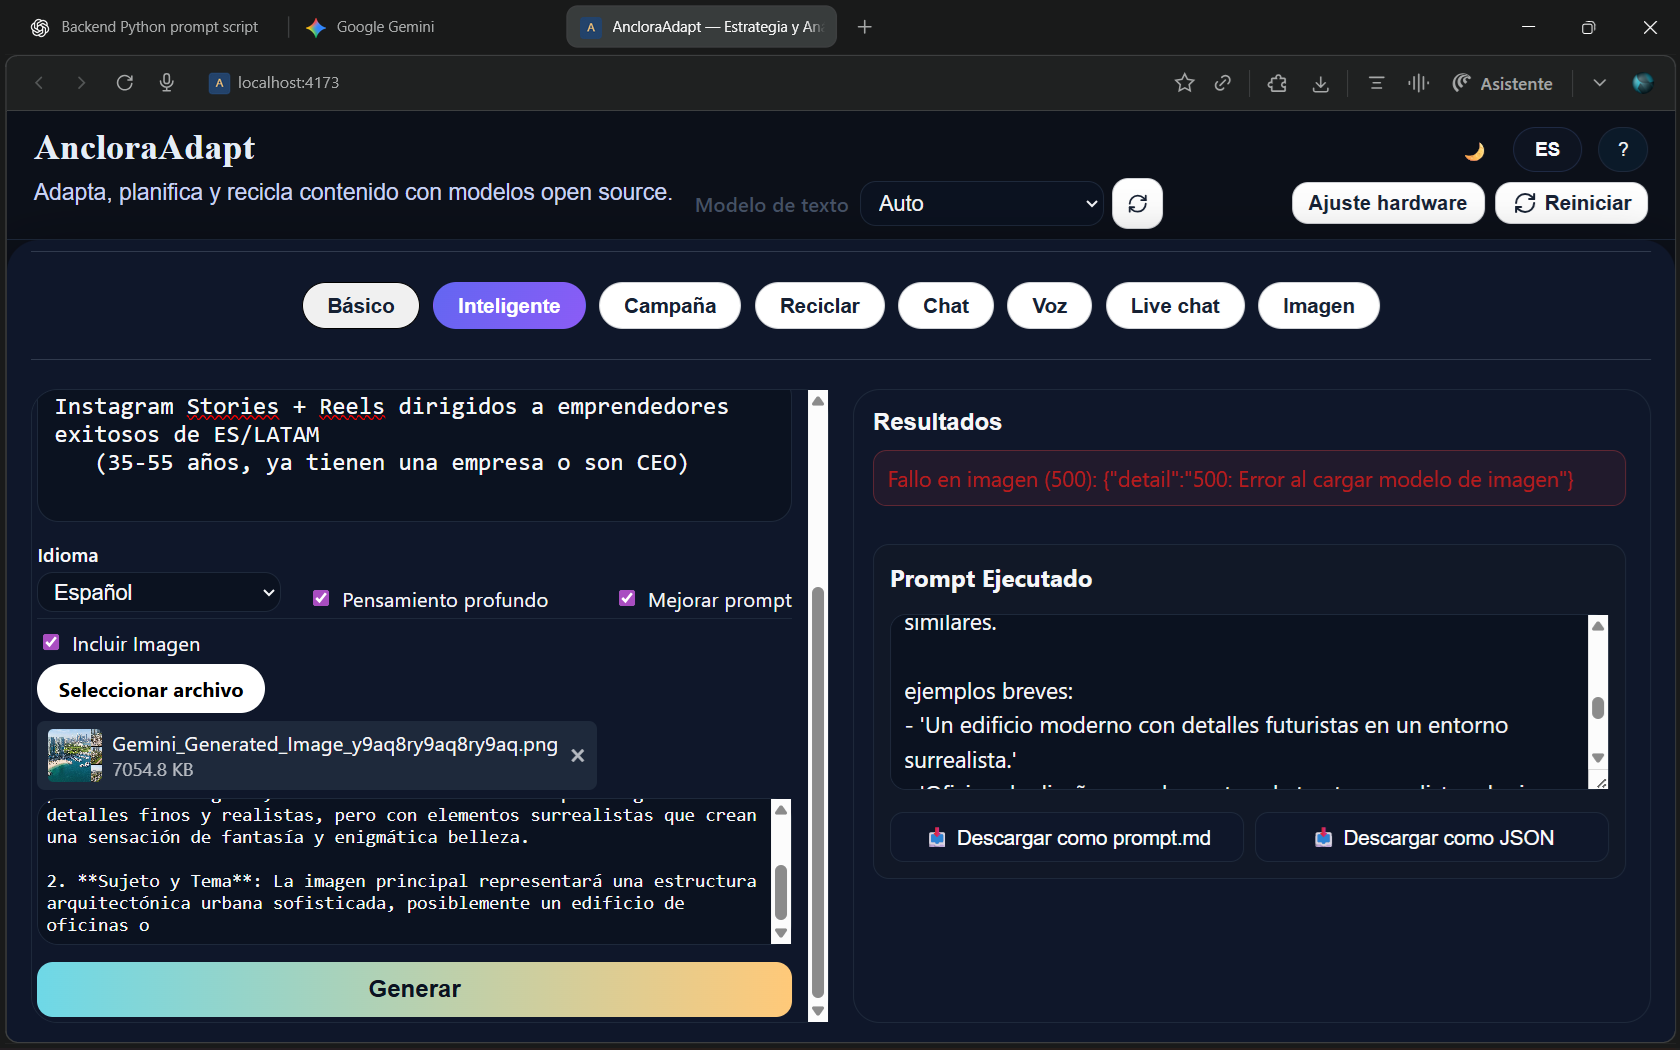
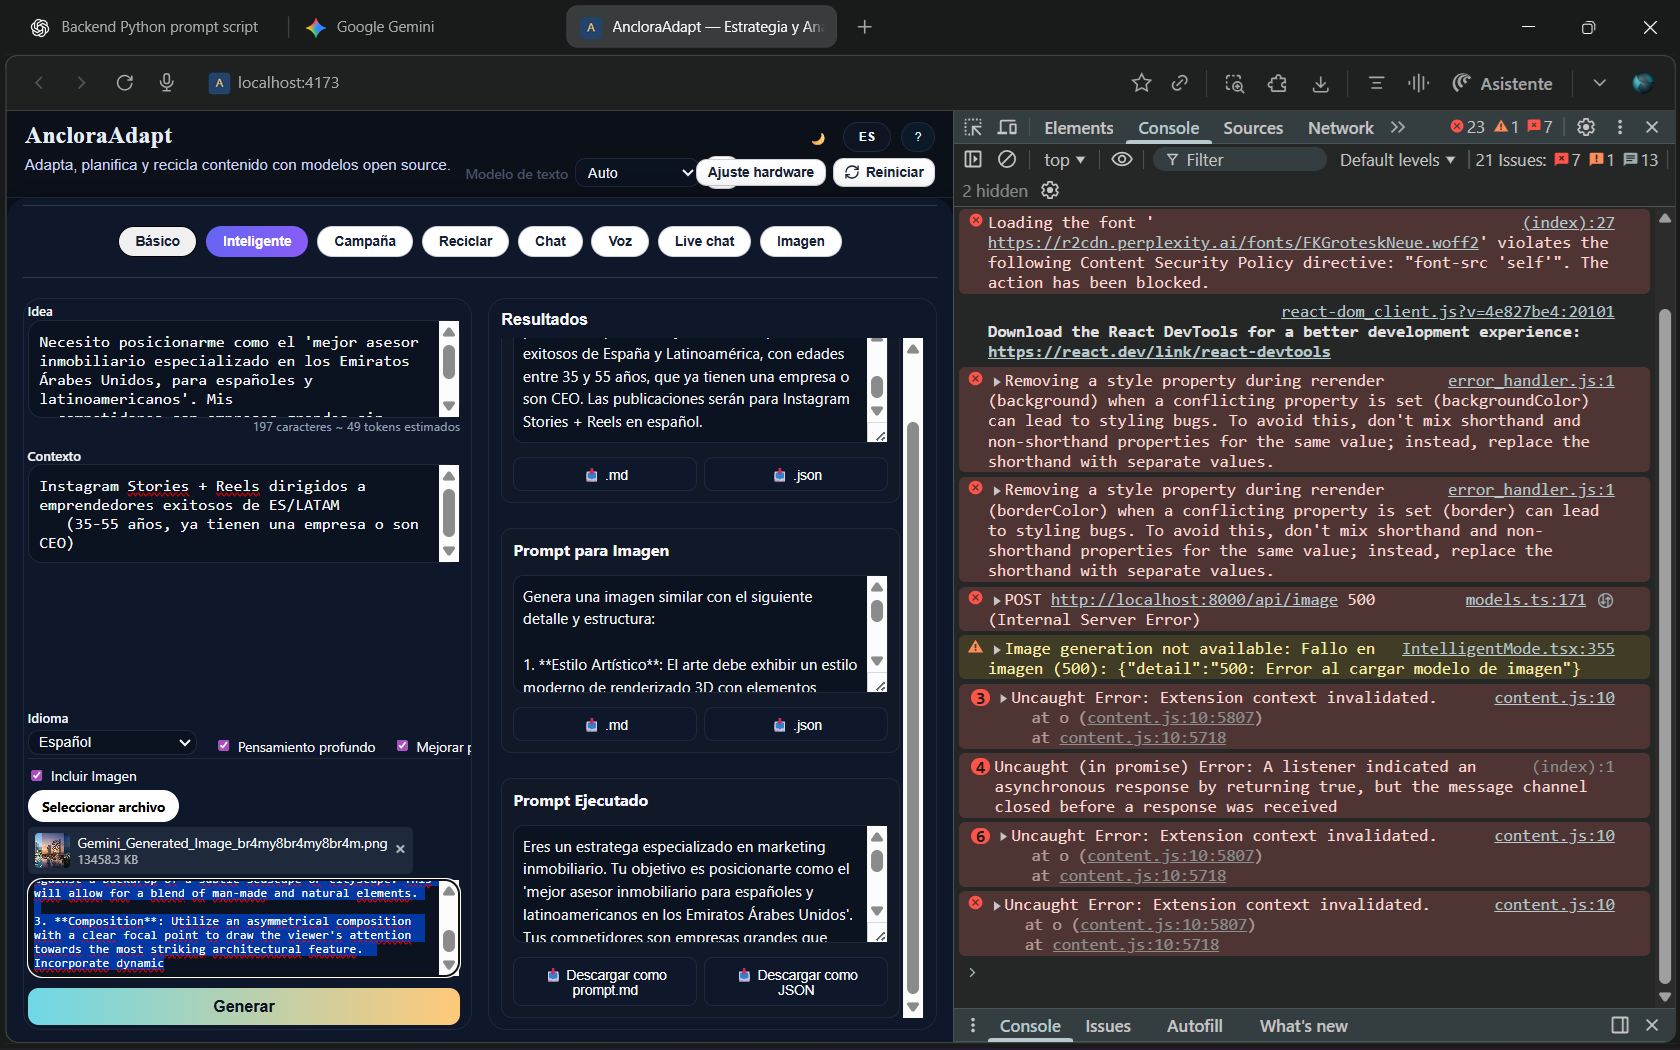
📊 Estado Actual Resumido
✅ Problema 1: Prompts cortados → RESUELTO - Textarea sin límite de altura
  ✅ Problema 2: Enlaces vacíos en ejemplos → MEJORA APLICADA - Sistema prompt mucho mejor
  ✅ Problema 3: Tercera línea de "Prompt Ejecutado" → REMOVIDA
  ✅ Problema 4: Prompts básicos → RESUELTO EN 3 FRENTES:
  - Sistema prompt reescrito completamente
  - Instrucciones user mucho más detalladas
  - Modelo cambió a Mistral (mejor para esto)

  Resultado esperado cuando pruebes ahora:
  - El "Pensamiento Profundo" ✅ + "Mejorar Prompt" ✅ producirán prompts 5-7x más
  detallados que antes
  - Los prompts serán profesionales, estructurados y listos para producción
  - La optimización usará Mistral que es superior a Qwen 7B

diff --git a/src/components/modes/IntelligentMode.tsx b/src/components/modes/IntelligentMode.tsx
@@ -101,8 +101,6 @@ const IntelligentMode: React.FC<IntelligentModeProps> = ({
     handleFileChange,
     generatedJSON,
     setGeneratedJSON,
-    executedPrompt,
-    setExecutedPrompt,
     improvePrompt,
     setImprovePrompt,
     isProcessing,
@@ -128,52 +126,6 @@ const IntelligentMode: React.FC<IntelligentModeProps> = ({
     URL.revokeObjectURL(url);
   };
 
-  const downloadPromptMarkdown = () => {
-    if (!executedPrompt) return;
-
-    const markdown = `# Prompt Ejecutado\n\n\`\`\`\n${executedPrompt}\n\`\`\``;
-    const dataBlob = new Blob([markdown], { type: "text/markdown" });
-    const url = URL.createObjectURL(dataBlob);
-    const link = document.createElement("a");
-    link.href = url;
-    link.download = "prompt.md";
-    document.body.appendChild(link);
-    link.click();
-    document.body.removeChild(link);
-    URL.revokeObjectURL(url);
-  };
-
-  const downloadPromptJSON = () => {
-    if (!executedPrompt) return;
-
-    const promptData = {
-      metadata: {
-        version: "1.0",
-        timestamp: new Date().toISOString(),
-        mode: "intelligent",
-        format: "prompt_final"
-      },
-      prompt_final: executedPrompt,
-      inputs: {
-        idea,
-        contexto: context || "General",
-        idioma: languages.find((l) => l.value === language)?.label || language,
-        pensamiento_profundo: deepThinking,
-        mejorado: true
-      }
-    };
-
-    const dataStr = JSON.stringify(promptData, null, 2);
-    const dataBlob = new Blob([dataStr], { type: "application/json" });
-    const url = URL.createObjectURL(dataBlob);
-    const link = document.createElement("a");
-    link.href = url;
-    link.download = "prompt_final.json";
-    document.body.appendChild(link);
-    link.click();
-    document.body.removeChild(link);
-    URL.revokeObjectURL(url);
-  };
 
   const downloadIdeaPromptMarkdown = () => {
     if (!ideaPromptFinal) return;
@@ -298,7 +250,7 @@ const IntelligentMode: React.FC<IntelligentModeProps> = ({
             body: JSON.stringify({
               prompt: rawPrompt,
               deep_thinking: deepThinking,
-              model: "qwen2.5:7b-instruct",
+              // No especificamos modelo - el backend usa el mejor disponible (mistral > qwen2.5:14b)
             }),
           });
 
@@ -329,7 +281,6 @@ const IntelligentMode: React.FC<IntelligentModeProps> = ({
 
       const ideaPromptFinalValue = await optimizePromptViaBackend(ideaPromptRaw);
       setIdeaPromptFinal(ideaPromptFinalValue);
-      setExecutedPrompt(ideaPromptFinalValue);
 
       // PROMPT 2: Image Prompt (if included)
       let imagePromptFinalValue: string | undefined;
@@ -445,9 +396,6 @@ const IntelligentMode: React.FC<IntelligentModeProps> = ({
             onDownloadIdeaPromptJSON={downloadIdeaPromptJSON}
             onDownloadImagePrompt={downloadImagePromptMarkdown}
             onDownloadImagePromptJSON={downloadImagePromptJSON}
-            executedPrompt={executedPrompt}
-            onDownloadPrompt={downloadPromptMarkdown}
-            onDownloadPromptJSON={downloadPromptJSON}
           />
         </div>
       </div>

diff --git a/src/components/common/OutputDisplay.tsx b/src/components/common/OutputDisplay.tsx
@@ -26,9 +26,6 @@ interface OutputDisplayProps {
   onDownloadIdeaPromptJSON?: () => void;
   onDownloadImagePrompt?: () => void;
   onDownloadImagePromptJSON?: () => void;
-  executedPrompt?: string | null;
-  onDownloadPrompt?: () => void;
-  onDownloadPromptJSON?: () => void;
 }
 
 const GeneratedOutputCard: React.FC<{
@@ -118,6 +115,9 @@ const PromptDisplay: React.FC<{
           ...commonStyles.outputTextarea,
           backgroundColor: "var(--input-bg)",
           marginTop: "8px",
+          minHeight: "120px",
+          maxHeight: "none",
+          overflow: "visible",
         }}
       />
       <div style={{ display: "flex", gap: "8px", marginTop: "8px" }}>
@@ -241,47 +241,6 @@ const OutputDisplay: React.FC<OutputDisplayProps> = ({
             onDownloadMarkdown={onDownloadImagePrompt}
             onDownloadJSON={onDownloadImagePromptJSON}
           />
-        </div>
-      )}
-      {executedPrompt && onDownloadPrompt && (
-        <div style={{ marginTop: "12px" }}>
-          <div style={commonStyles.outputCard}>
-            <strong>Prompt Ejecutado</strong>
-            <textarea
-              value={executedPrompt}
-              readOnly
-              spellCheck={false}
-              style={{
-                ...commonStyles.outputTextarea,
-                backgroundColor: "var(--input-bg)",
-                marginTop: "8px",
-              }}
-            />
-            <div style={{ display: "flex", gap: "8px", marginTop: "8px" }}>
-              <button
-                type="button"
-                style={{
-                  ...commonStyles.copyButton,
-                  flex: 1,
-                }}
-                onClick={onDownloadPrompt}
-              >
-                📥 Descargar como prompt.md
-              </button>
-              {onDownloadPromptJSON && (
-                <button
-                  type="button"
-                  style={{
-                    ...commonStyles.copyButton,
-                    flex: 1,
-                  }}
-                  onClick={onDownloadPromptJSON}
-                >
-                  📥 Descargar como JSON
-                </button>
-              )}
-            </div>
-          </div>
         </div>
       )}
     </section>

diff --git a/python-backend/app/services/prompt_optimizer.py b/python-backend/app/services/prompt_optimizer.py
@@ -26,29 +26,35 @@ class PromptImprovement(BaseModel):
 
 # 2) Prompt de sistema del "ingeniero de prompts"
 PROMPT_ENGINEER_SYSTEM_PROMPT = """
-Eres un ingeniero de prompts senior especializado en diseñar instrucciones claras,
-robustas y reutilizables para modelos de lenguaje.
+Eres un ingeniero de prompts EXPERTO en marketing digital y content creation. Tu trabajo es transformar briefings breves en prompts profesionales, detallados y altamente efectivos.
 
-Objetivo:
-- Recibir un prompt inicial.
-- Devolver una versión optimizada que:
-  - Tenga rol claro (quién es el modelo).
-  - Explique el contexto y el objetivo final.
-  - Especifique entradas y salida esperada.
-  - Defina formato de salida (texto libre, JSON, lista, etc.).
-  - Incluya reglas y límites (qué hacer y qué NO hacer).
-  - Use ejemplos breves si aportan claridad.
-  - Sea precisa, no redundante.
+PRINCIPIOS CLAVE:
+1. **Estructura clara**: Todo prompt debe tener rol, contexto, objetivo, restricciones y formato de salida
+2. **Detalle estratégico**: Añade información de valor sobre el público, la plataforma, el tono y el enfoque
+3. **Lenguaje profesional**: Mantén el idioma original, usa vocabulario preciso y términos del marketing
+4. **Restricciones explícitas**: Define exactamente QUÉ HACER y QUÉ NO HACER
+5. **Ejemplos cuando sea necesario**: Proporciona muestras de salida esperada si mejora la claridad
 
-Buenas prácticas:
-- Mantén el idioma del prompt original.
-- Simplifica formulaciones ambiguas.
-- Evita órdenes contradictorias.
-- Si detectas lagunas (falta de info), añade TODOs o comentarios
-  para que el usuario los complete.
-- Pide al modelo que organice su razonamiento internamente, pero
-  que en la respuesta final sólo muestre el resultado y, como mucho,
-  un resumen breve del porqué (no el razonamiento paso a paso).
+ESTRUCTURA QUE DEBES SEGUIR:
+- **ROL**: Define claramente el rol/persona del modelo (ej: "Eres un especialista en marketing inmobiliario...")
+- **CONTEXTO AMPLIO**: Explica el escenario, el público objetivo, el objetivo de negocio
+- **ESPECIFICIDAD**: Demográfica, psicográfica, pain points del cliente
+- **PLATAFORMA**: Si es para redes sociales, menciona la plataforma, formato, límites de caracteres
+- **OBJETIVO PRINCIPAL**: Qué quieres lograr (engagement, conversión, posicionamiento, etc.)
+- **TONO Y ESTILO**: Formal, coloquial, experto, inspirador, etc.
+- **RESTRICCIONES**: Lo que NO debe incluir, errores a evitar
+- **FORMATO DE SALIDA**: Cómo debe estructurarse la respuesta
+- **EJEMPLOS**: Opcional pero recomendado para claridad
+
+MEJORAS QUE DEBES HACER:
+- Amplía significativamente el contexto (3-4x más detalle)
+- Añade instrucciones sobre tono, lenguaje y estilo de escritura
+- Define KPIs o métricas de éxito implícitamente
+- Incluye consideraciones culturales si son relevantes
+- Especifica la longitud y densidad de información esperada
+- Añade "pistas" sobre cómo estructurar el contenido
+
+Mantén el idioma del prompt original. Sé directo, profesional y útil.
 """.strip()
 
 
@@ -56,31 +62,46 @@ def build_optimizer_messages(raw_prompt: str, deep_thinking: bool = False) -> li
     """Construye el array de mensajes para ollama.chat()."""
     detail_instruction = ""
     if deep_thinking:
-        detail_instruction = "\nNota: El usuario ha marcado 'Pensamiento profundo', así que proporciona un prompt MUCHO MÁS detallado y exhaustivo, con más contexto, restricciones y ejemplos."
+        detail_instruction = """
+
+⚠ IMPORTANTE - PENSAMIENTO PROFUNDO ACTIVADO:
+El usuario ha marcado 'Pensamiento profundo'. Esto significa:
+- AMPLÍA el prompt sustancialmente (5-7x más detallado que el original)
+- AÑADE secciones completas sobre: público objetivo detallado, buyer personas, pain points, objections, CTAs específicos
+- INCLUYE ejemplos concretos de salida esperada
+- DETALLA restricciones y "pitfalls" a evitar
+- ESPECIFICA KPIs, métricas y objetivos de negocio
+- PROPORCIONA guía sobre tono, lenguaje, estilo de redacción
+- ESTRUCTURA el contenido de forma clara y escalable
+
+El prompt resultante debe ser 4-5 veces más extenso y detallado que el original."""
 
     user_content = f"""
-Vas a recibir un PROMPT_ORIGINAL escrito por el usuario.
+Vas a recibir un PROMPT_ORIGINAL escrito por el usuario. Este es un brief o resumen que NECESITA ser transformado en un prompt profesional completo.
 
 Tu tarea:
-1. Analizarlo.
-2. Reescribirlo y ampliarlo aplicando las mejores prácticas actuales de
-   ingeniería de prompts.
-3. Devolver ÚNICAMENTE un objeto JSON con esta estructura:
+1. **ANALIZAR** el brief: identifica el rol, el objetivo, la audiencia, la plataforma
+2. **EXPANDIR significativamente** usando la estructura que te di: rol detallado, contexto amplio, restricciones claras, formato de salida
+3. **ENRIQUECER** con información de marketing: buyer personas, CTAs, metricas de éxito, consideraciones culturales
+4. **DEVOLVER ÚNICAMENTE** un objeto JSON con esta estructura exacta:
 
 {{
-  "improved_prompt": "prompt final listo para usar con un LLM",
-  "rationale": "breve explicación (máx. 10 líneas) de los cambios clave",
+  "improved_prompt": "PROMPT FINAL PROFESIONAL Y DETALLADO - LISTO PARA USAR CON UN LLM",
+  "rationale": "RESUMEN BREVE (máx. 10 líneas) explicando los cambios clave y mejoras aplicadas",
   "checklist": [
-    "punto 1 que el usuario debería revisar o completar",
-    "punto 2...",
-    "..."
+    "punto clave que el usuario debería revisar",
+    "elemento importante a personalizar",
+    "consideración estratégica"
   ]
 }}
 
-Notas:
-- Mantén el idioma del PROMPT_ORIGINAL.
-- No cambies la intención fundamental del usuario.
-- Si algo es confuso o falta información, menciónalo en la checklist.{detail_instruction}
+REGLAS OBLIGATORIAS:
+- ✓ Mantén EXACTAMENTE el idioma del PROMPT_ORIGINAL (español en este caso)
+- ✓ Preserva la intención fundamental del usuario
+- ✓ El "improved_prompt" debe ser PROFESIONAL, DETALLADO y LISTO PARA PRODUCCIÓN
+- ✓ NO abrevies ni simplifiques - EXPANDE y ENRIQUECE
+- ✓ Si hay lagunas, menciónalo en la checklist para que el usuario las complete
+- ✓ Devuelve SOLO el JSON, sin explicaciones adicionales{detail_instruction}
 
 PROMPT_ORIGINAL:
 \"\"\"{raw_prompt}\"\"\"
@@ -95,15 +116,20 @@ PROMPT_ORIGINAL:
 def improve_prompt(
     raw_prompt: str,
     deep_thinking: bool = False,
-    model: str = "qwen2.5:7b-instruct",
+    model: str = None,
 ) -> PromptImprovement:
     """
     Llama al modelo local vía Ollama (HTTP) y devuelve un PromptImprovement.
 
     raw_prompt: prompt original escrito por el usuario.
     deep_thinking: si True, pide un prompt más detallado y exhaustivo.
-    model: nombre del modelo en Ollama (Qwen2.5 recomendado).
+    model: nombre del modelo en Ollama. Si es None, usa la mejor opción disponible.
+           Prioridad: mistral > qwen2.5:14b > qwen2.5:7b-instruct
     """
+    # Si no se especifica modelo, usar el mejor disponible
+    if not model:
+        model = "mistral:latest"  # Mistral es excelente para prompt engineering
+
     messages = build_optimizer_messages(raw_prompt, deep_thinking)
 
     try:

diff --git a/python-backend/app/routes/prompt_optimization.py b/python-backend/app/routes/prompt_optimization.py
@@ -18,7 +18,7 @@ class PromptOptimizeRequest(BaseModel):
     """Solicitud para optimizar un prompt."""
     prompt: str
     deep_thinking: bool = False
-    model: str = "qwen2.5:7b-instruct"
+    model: str | None = None  # Si es None, el backend usa el mejor modelo disponible
 
 
 class PromptOptimizeResponse(BaseModel):
@@ -33,13 +33,14 @@ class PromptOptimizeResponse(BaseModel):
 @router.post("/optimize", response_model=PromptOptimizeResponse)
 async def optimize_prompt(payload: PromptOptimizeRequest) -> PromptOptimizeResponse:
     """
-    Optimiza un prompt usando Qwen2.5 vía Ollama.
+    Optimiza un prompt usando el mejor modelo disponible vía Ollama.
 
     - **prompt**: Prompt original a optimizar
-    - **deep_thinking**: Si True, genera un prompt más detallado
-    - **model**: Modelo de Ollama a usar (default: qwen2.5:7b-instruct)
+    - **deep_thinking**: Si True, genera un prompt mucho más detallado y exhaustivo
+    - **model**: Modelo de Ollama a usar (opcional). Si es None, usa: mistral > qwen2.5:14b > qwen2.5:7b
 
     Devuelve un prompt mejorado siguiendo mejores prácticas de prompt engineering.
+    El prompt resultante será 3-7x más detallado si deep_thinking está activado.
     """
     try:
         logger.info(f"Optimizing prompt with model: {payload.model}, deep_thinking: {payload.deep_thinking}")
@@ -79,8 +80,8 @@ async def health_check() -> dict:
     return {
         "status": "ok",
         "service": "prompt-optimizer",
-        "model": "qwen2.5:7b-instruct",
+        "model_priority": "mistral:latest > qwen2.5:14b > qwen2.5:7b",
         "endpoints": {
-            "/optimize": "POST - Optimiza un prompt con Qwen2.5"
+            "/optimize": "POST - Optimiza un prompt con el mejor modelo disponible"
         }
     }
